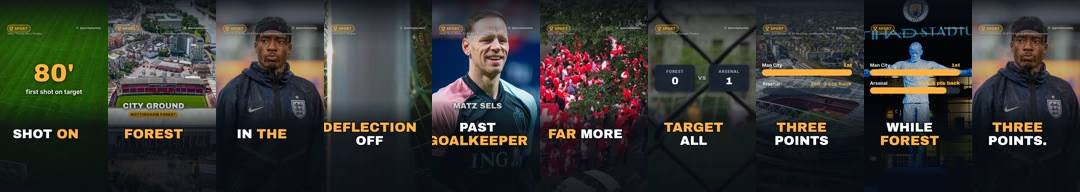
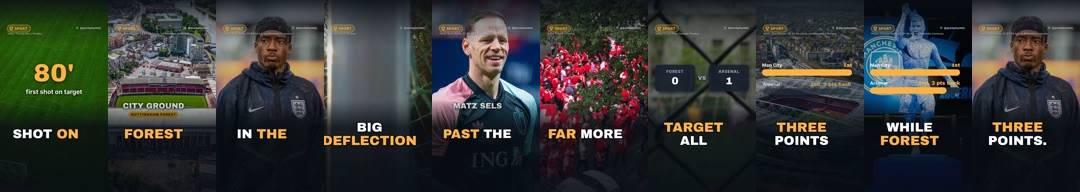
Results from run 40

diff --git a/review/README.md b/review/README.md
@@ -6,7 +6,6 @@ Instagram: connected as quickplaydaily · TikTok: connected (checked Sun 18 Oct 
 
 ## Needs a look
 
-- **QD-037** Arsenal's 1st shot on target came in minute 80 ⚽: failed. RuntimeError: checks failed: unclear narration in beats [2]
 - **QD-039** Street Fighter movie: Roman Reigns is Akuma 🥋: failed. RuntimeError: checks failed: unclear narration in beats [4]
 - **TEST-L1** Street Fighter hits cinemas today 🥊: failed. RuntimeError: checks failed: unclear narration in beats [2, 3]
 - **TEST-L2** Street Fighter hits cinemas today 🥊: failed. RuntimeError: checks failed: unclear narration in beats [2, 3]
